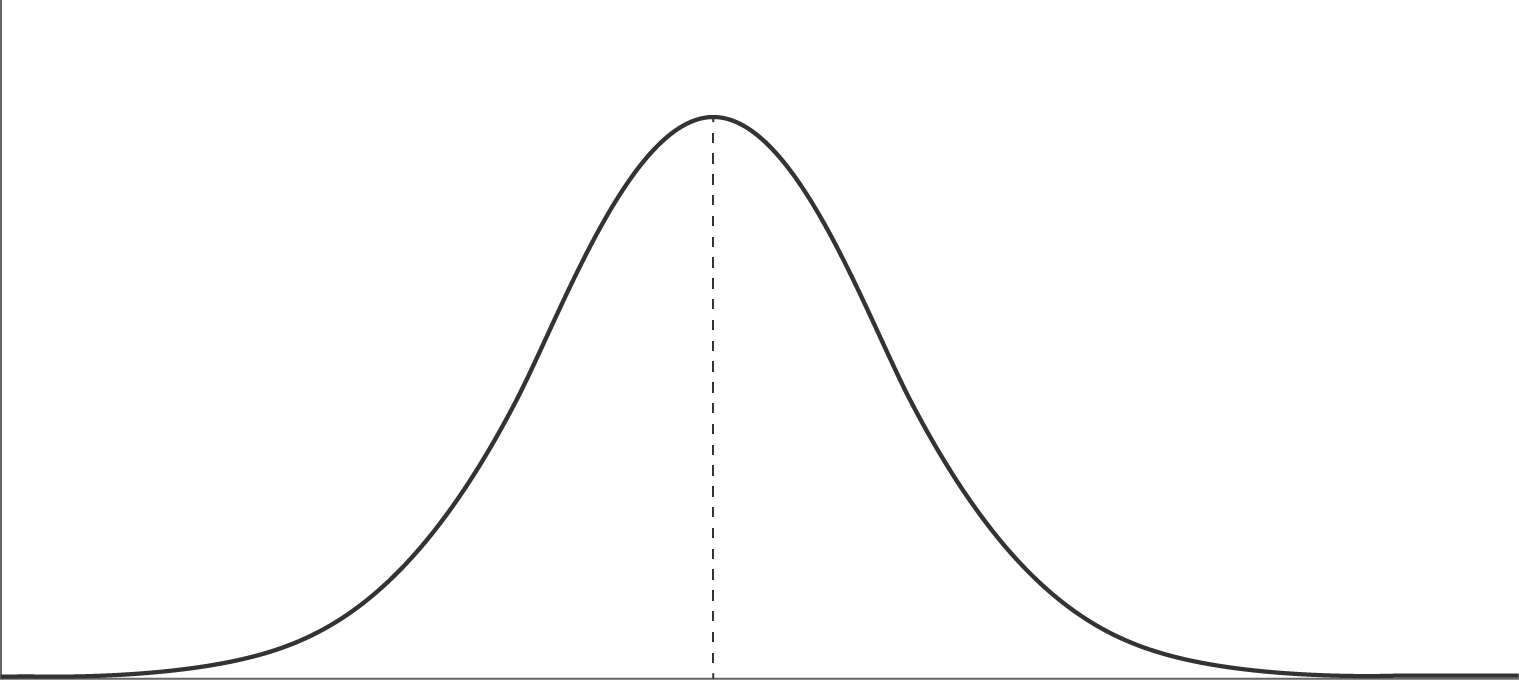
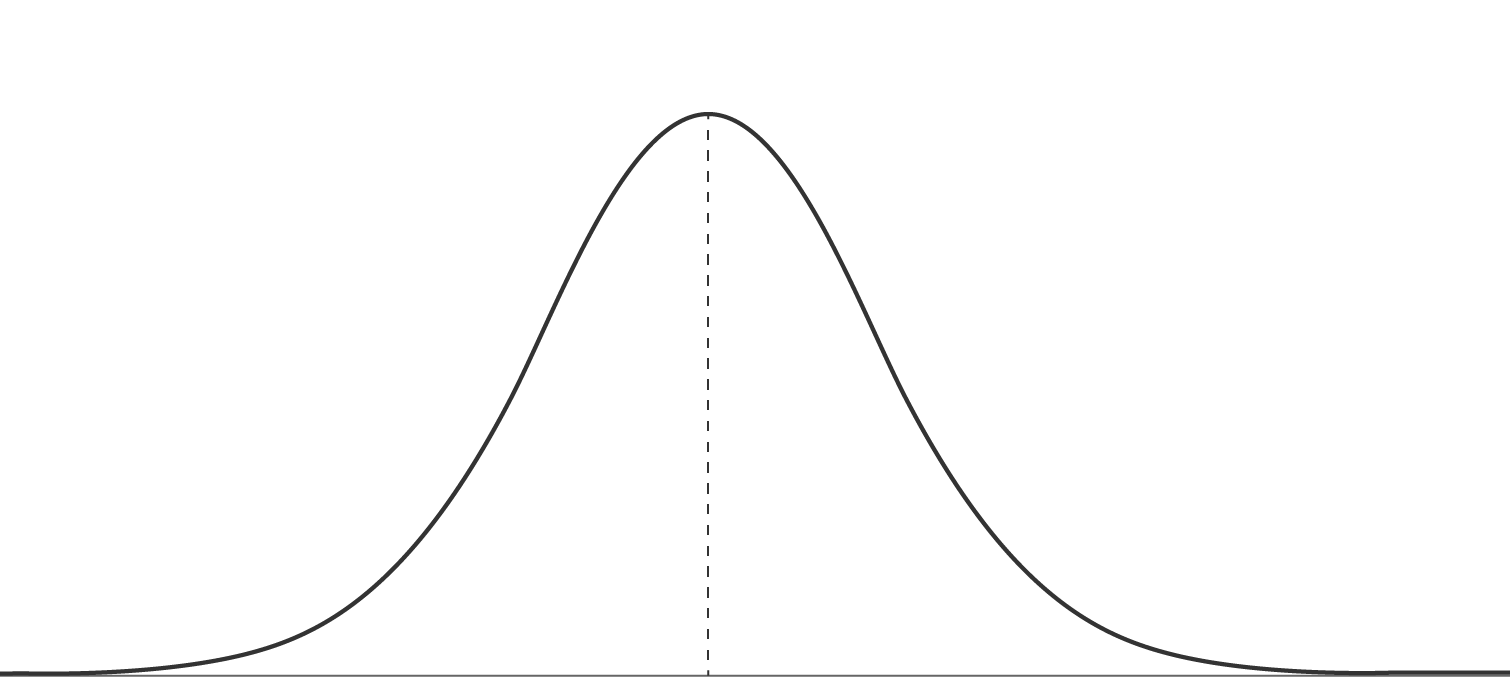
QoL

diff --git a/style.css b/style.css
@@ -39,24 +39,29 @@ figcaption {
     font-size: 15px;
   }
 }
+p { 
+  margin: 10px 0;
+}
+/* Heading Sizes */
 
+#site-title {
+  font-size: 1.4em;
+}
 
 h1 {
   font-size: 2.4em;
 }
 
-#site-title {
-  font-size: 1.4em;
-}
+
 h2 {
   font-size: 1.4em;
-  margin-top: 1.7em;
-  margin-bottom: 0.5em;
+  font-weight: 700;
+  margin: 15px 0 10px;
+  line-height: 1.5;
 }
 
 h1, h2, h3 {
   font-family: Helvetica, Arial, sans-serif; 
-  line-height: 2.5rem;
 }
 
 ul, li {
@@ -147,5 +152,10 @@ footer p {
     border-bottom: 1px dotted #bbb;
     margin-bottom: -2px;
   }
+
+  img.invert {
+    filter: invert(80%);
+  }
+
 
 }

diff --git a/eleventy.config.js b/eleventy.config.js
@@ -1,4 +1,15 @@
+import markdownIt from "markdown-it";
+
 export default function(eleventyConfig) {
-    eleventyConfig.addPassthroughCopy("style.css");
-    eleventyConfig.addPassthroughCopy("assets/");
+  let options = {
+		html: true,
+		breaks: true,
+		linkify: true,
+    typographer: true,
+	};
+  eleventyConfig.setLibrary("md", markdownIt(options));
+
+  eleventyConfig.addPassthroughCopy("style.css");
+  eleventyConfig.addPassthroughCopy("assets/");
 };
+

diff --git a/posts/regina.md b/posts/regina.md
@@ -1,0 +1,33 @@
+---
+title: The Second Best is a Formal Order
+description: "Notes on the death of Elizabeth II"
+permalink: /regina/
+---
+
+*The desires of the heart are as crooked as corkscrews\
+Not to be born is the best for man\
+The second best is a formal order\
+The dance's pattern, dance while you can.*
+
+**~ W.H. Auden**
+
+If you're a close friend and had a conversation with me yesterday, you probably heard me talk a lot about British history --- you probably even heard me express some ineffable sense of gravity at the death of a British monarch. Parts of Twitter have been unfailingly funny in mocking those who believe in such an archaic mechanism as *monarchy*. And who can blame them? Being the symbolic head of a state which has repressed and killed populations around the world is unlikely to earn Elizabeth II a lot of beatifying eulogies from erstwhile conquered peoples. 
+
+However, while the British empire does not need to be offered deference, there is another reason we might feel gravity and respect, and want to pay tribute to their constitutional culture and its resilience. The UK has a successful constitutional system, the rule of law, and *real* democratic accountability. In order to appreciate how rare this is, one must recognise that constitutions are fragile illusions, and their sole source of strength is a sense of gravity, of belief in tradition. More than politics, what animates this moment is *ceremony,* these are matters of custom and style --- the remnants of an archaic constitutional settlement of extraordinary longevity whose forms still retain some of their old power to inspire respect and awe.\
+Why do I feel so strongly about this? As Matt Levine [puts it](https://www.bloomberg.com/opinion/articles/2016-11-09/brambles-partners-and-options), principles --- like constitutionalism, the separation of powers, or the freedom of the press --- do not enact themselves. They persist "because the people constrained by them believe themselves to be constrained by them." And these principles are "*checks on power only as far as they command the collective loyalty of those in power; they require a governing class that cares about law and government and [...] tradition, rather than personal power and revenge. Their magic is fragile, and can disappear if people who don't believe in it gain power."*
+
+And remembering this is doubly important in India, where constitutionalism is still a facade over the fundamental failings of the rule of law. Daily, we receive reminders that the only laws that truly exist are the physical laws of the universe. Everything else is merely an arrangement of convenience. If different people held power, things would be different --- including the constitutional order. 
+
+Legal realists throughout history have understood this. As Holmes [said](https://www.gutenberg.org/files/2449/2449-h/2449-h.htm), the life of the law has not been logic, but experience, and "*[t]he substance of the law at any given time pretty nearly corresponds, so far as it goes, with what is then understood to be convenient; but its form and machinery, and the degree to which it is able to work out desired results, depend very much upon its past."* What law officers in India today argue, and what governments do, is a compromise between convenience and ideology --- but they must make those arguments in the constitutional courts, in the language of rights, and with the respect that is appropriately due to the law lords. 
+
+Perhaps you would feel a little more respect for British tradition if you understood how steeped we are in it. When you make a claim before a constitutional court, what you are really doing is invoking history. When you claim the principles of equity and fairness, you are calling upon the product of a tradition that began with the *curia regis* and the Lord Chancellor. If you learn the history of the criminal law, you will learn that the transition from blood vengeance to the burden of proof took a long time, and that virtually none of it was certain, and all of it was hard won. 
+
+Absent these traditions, it takes embarrassingly little for the rule of law to be replaced by a fight for a knife in the mud. We must cherish these principles and the tradition and history that they represent. The moment we stop believing in them, the mirage will shimmer and dissipate. But as long as they persist, they can be summoned in the face of reaching claims from ambitious statesmen, whether they are progressive or regressive. 'No,' we can tell them, 'you cannot wish away or dissipate this recent past --- constitutionalism and all the rest --- so easily.' As long as we live by the common law and its progeny, we are bound in an inexplicable sense of mutuality, parties to a shared network of obligation. This bond is the physical feeling of malaise at the thought of a man, however dangerous, being imprisoned without trial, or the flutter that arises from the English dictum that a judge shall put aside all other business and take up first the matter involving the liberty of a subject.   
+
+Perhaps you derive those principles from less archaic forms. But it helps, sometimes, to have talismans and tokens and a sense of history. It lets us summon ancient curses and a cerebral stampede against the person who suggests that rights-based systems should be replaced by an economic cost-benefit analysis; or against the craven lawyer who argues that bulldozing homes without fair notice is required in the national interest. In the face of bulldozers, there are no philosophical debates about first principles and anarchism and empathy. No, our best and only hope is to teach people a litany to ward off demons: "Because the *Magna Carta,* because the common law, because the Constitution, because the oath of office, because कानून." 
+
+Mere days ago, we celebrated the [grant of bail](https://www.thehindu.com/news/national/supreme-court-grants-bail-to-kerala-journalist-siddique-kappan/article65869975.ece) to a political prisoner who had been detained for far too long. That grant of bail was the *[direct](https://indianexpress.com/article/india/cji-lalit-led-bench-will-hear-pleas-of-kappan-navlakha-pils-8117470/)* result of the ascent of a new Chief Justice. Gentle reader, it is not for *me* to say that this is not the rule of law; it is for *you* to say that. So, to answer your derision, perhaps my love of ceremony has something to do with the fact that I am a citizen of the Republic of India, where so little is stable, where so little can be taken for granted, where so little is governed by constitutional ceremony,  and where so much is decided by apathy and force. 
+
+I hope you will forgive, meanwhile, my goosebumps and my awe as I watch a system go through royal succession --- as the Queen's Counsels plead allegiance to a new King, as Regina becomes Rex, and as the First Lord of the Treasury offers her condolences to a functioning Parliament whose sovereignty was only [recently defended](https://en.wikipedia.org/wiki/R_(Miller)_v_The_Prime_Minister_and_Cherry_v_Advocate_General_for_Scotland) by an independent Supreme Court. 
+
+And so the rule of law carries on, held up by a collective Atlas of brave lawyers, scholars, activists and politicians, bureaucrats, businessmen, and citizens who refuse to accept that the Constitution is only a parchment promise. I will not begrudge you if you think me naive --- I probably am --- to aspire to a system while detesting its colonial history, or to think that there could be anything to *feel* as the colonialists grieve. To paraphrase Auden, perhaps I believe, in the absence of perfect justice and the settlement of all wrongs, that the *second best is a formal order.* And while the tune is not quite catching in our republic, we can only whirl harder, and dance, dance, dance until we drop. 

diff --git a/posts/saints.md b/posts/saints.md
@@ -1,7 +1,7 @@
 ---
 title: Against Searching for Saints
 permalink: /saints/
-description: "In defense of paying people to do things • Incentives solve principal-agent problems • Motivated agents exist but are unevenly distributed and hard to identify"
+description: "in defense of paying people to do things • incentives solve principal-agent problems • motivated agents exist but are unevenly distributed and hard to identify"
 ---
 
 Adam Mastroianni [argues](https://www.experimental-history.com/p/startling-differences-between-humans) that we are using incentives poorly. His case has two parts.
@@ -35,7 +35,7 @@ Let's get back to Adam's case. It skips the principal-agent problem, because Ada
 ### 1) They are not evenly distributed
 
 <figure>
-<img src="/assets/img/normal.png" />
+<img class="invert" src="/assets/img/normal.png" />
 <figcaption>A normal distribution.</figcaption>
 </figure>
 

diff --git a/posts/drafting.md b/posts/drafting.md
@@ -1,7 +1,7 @@
 ---
 title: Drafting 
 permalink: /drafting/
-description: "Similarities between law and code • Structural issues in the drafting process • Finding abstractions and constructing ontologies • Plain language drafting • Examples of great drafting"
+description: "similarities between law and code • structural issues in the drafting process • finding abstractions and constructing ontologies • plain language drafting • examples of great drafting"
 ---
 Legislative drafting, like contract drafting or software engineering, is fundamentally a problem of constructing the correct [ontologies](https://en.wikipedia.org/wiki/Ontology_(information_science)).
 
